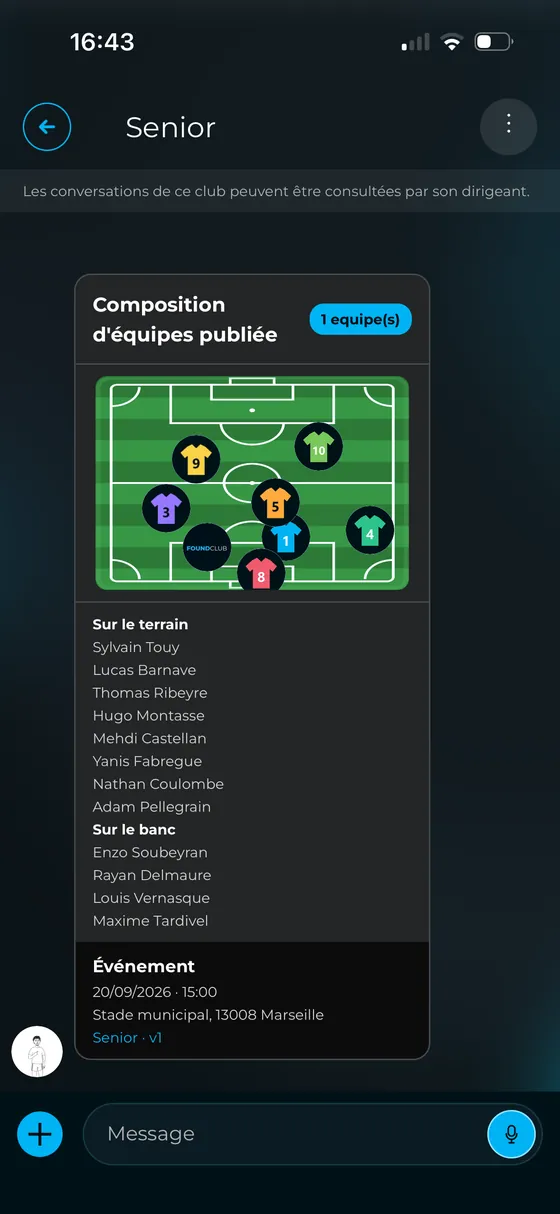
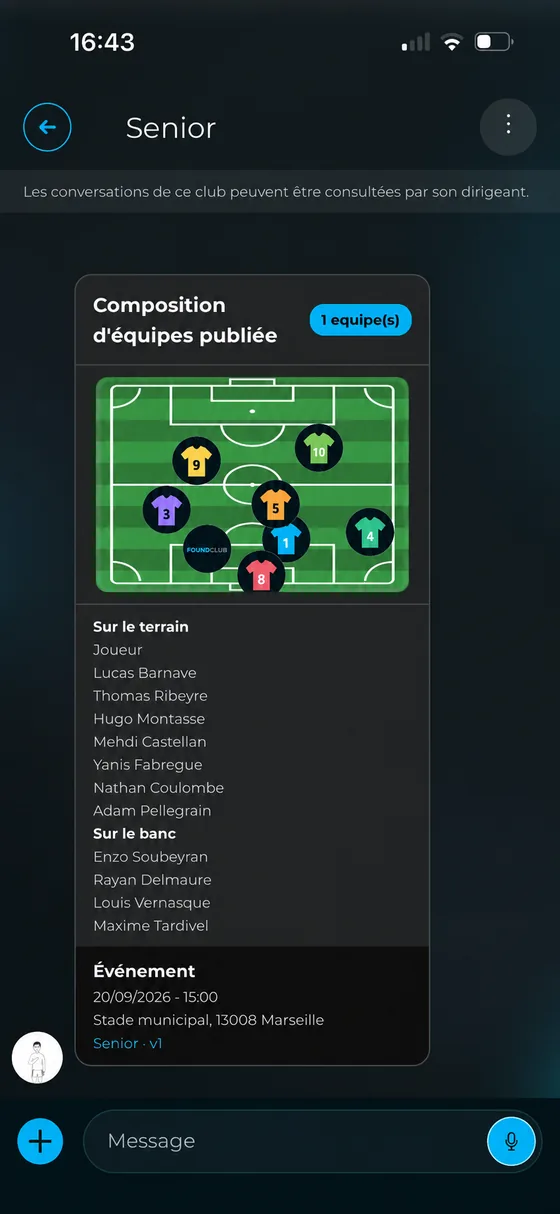
LANDING : histoire vidéo et anonymisation des captures

diff --git a/index.html b/index.html
@@ -67,6 +67,7 @@
       <nav class="nav" aria-label="Navigation principale">
         <a href="#section-club">Fonctionnalités</a>
         <a href="#recrutement">Recrutement</a>
+        <a href="#histoire">Notre histoire</a>
         <a href="#offres">Gratuit ou payant</a>
         <a href="#questions">Questions</a>
         <a href="note-ton-club.html">Note ton club</a>
@@ -80,6 +81,7 @@
   <nav class="ancres" aria-label="Sections de la page">
     <a href="#section-club">Fonctionnalités</a>
     <a href="#recrutement">Recrutement</a>
+    <a href="#histoire">Notre histoire</a>
     <a href="#offres">Gratuit ou payant</a>
     <a href="#questions">Questions</a>
     <a href="#inscrire-club">Nous écrire</a>
@@ -125,7 +127,38 @@
       </div>
     </section>
 
-    <!-- 3. LES BÉNÉFICES — chaque bloc porte une démonstration : une séquence de vraies captures du club de démonstration. -->
+    <!-- 3. NOTRE HISTOIRE — aperçu local, puis iframe YouTube-nocookie uniquement après clic. -->
+    <section class="section section--teinte histoire" id="histoire" aria-labelledby="titre-histoire">
+      <div class="conteneur histoire__grille">
+        <div class="histoire__texte">
+          <p class="surtitre">Une application née au bord du terrain</p>
+          <h2 id="titre-histoire">Notre histoire</h2>
+          <p class="chapeau">FoundClub est pensé pour les moments où un club amateur doit faire simple, vite et ensemble.</p>
+          <p>Des convocations aux détections, nous construisons l'application avec les gestes qui font vivre les équipes chaque semaine.</p>
+          <p class="note">La vidéo reste sur cette page tant que vous ne la lancez pas. Aucun appel à YouTube n'est effectué avant votre clic.</p>
+        </div>
+        <button class="video yt-lite" type="button" data-ytid="F2VxYtpfiRg" aria-label="Lire la vidéo Notre histoire de FoundClub">
+          <img src="images/accueil/equipe-900.webp" srcset="images/accueil/equipe-900.webp 900w, images/accueil/equipe-1600.webp 1600w" sizes="(min-width: 1200px) 640px, 100vw" width="1600" height="900" loading="lazy" decoding="async" alt="Deux joueurs en maillot FoundClub, vus de dos, sur un terrain synthétique">
+          <span class="video__voile" aria-hidden="true"></span>
+          <span class="video__lecture" aria-hidden="true"><svg viewBox="0 0 24 24"><path d="M6 4l14 8-14 8z"></path></svg></span>
+          <span class="video__legende">Regarder Notre histoire</span>
+        </button>
+      </div>
+    </section>
+
+    <!-- 4. ENGAGEMENTS — après le déclic, la preuve de confiance avant les fonctionnalités. -->
+    <section class="section" aria-labelledby="titre-engagements">
+      <div class="conteneur">
+        <h2 id="titre-engagements">Nos engagements</h2>
+        <ul class="engagements">
+          <li><strong>Aucun cookie sur ce site</strong>Pas d'outil de mesure d'audience, pas de publicité.</li>
+          <li><strong>Les mineurs protégés par des règles écrites</strong>Pas de compte avant 13 ans. Une déclaration parentale est demandée avant 15 ans.</li>
+          <li><strong>Une personne vous répond sous 24&nbsp;heures</strong><a href="mailto:contact@foundclubpro.com">contact@foundclubpro.com</a></li>
+        </ul>
+      </div>
+    </section>
+
+    <!-- 5. LES BÉNÉFICES — chaque bloc porte une démonstration : une séquence de vraies captures du club de démonstration. -->
     <section class="section section--teinte" id="section-club" aria-labelledby="titre-benefices">
       <div class="conteneur">
         <h2 id="titre-benefices">Ce que FoundClub fait pour vous, dès cette semaine</h2>
@@ -370,22 +403,7 @@
       </div>
     </section>
 
-    <!-- 4. LE TOURNAGE — lien sortant vers YouTube, rien n'est chargé depuis YouTube. -->
-    <section class="section" aria-labelledby="titre-video">
-      <div class="conteneur">
-        <h2 id="titre-video">Pensée sur de vrais terrains</h2>
-        <p class="chapeau">Football, basket, rugby, athlétisme&nbsp;: nous avons tourné FoundClub là où le sport amateur se joue.</p>
-        <a class="video" href="https://www.youtube.com/watch?v=4b8V5IIoktk" target="_blank" rel="noopener">
-          <img src="images/accueil/equipe-900.webp" srcset="images/accueil/equipe-900.webp 900w, images/accueil/equipe-1600.webp 1600w" sizes="(min-width: 1200px) 1160px, 100vw" width="1600" height="900" loading="lazy" decoding="async" alt="Deux joueurs en maillot FoundClub, vus de dos, sur un terrain synthétique">
-          <span class="video__voile" aria-hidden="true"></span>
-          <span class="video__lecture" aria-hidden="true"><svg viewBox="0 0 24 24"><path d="M6 4l14 8-14 8z"></path></svg></span>
-          <span class="video__legende">Voir la vidéo de présentation (5 min) sur YouTube</span>
-        </a>
-        <p class="note">La vidéo s'ouvre sur YouTube. Rien n'est chargé depuis YouTube sur cette page.</p>
-      </div>
-    </section>
-
-    <!-- 5. GRATUIT OU PAYANT — les 7 jours offerts prennent toute la largeur, c'est la seule offre de la page. -->
+    <!-- 6. GRATUIT OU PAYANT — les 7 jours offerts prennent toute la largeur, c'est la seule offre de la page. -->
     <section class="section section--teinte" id="offres" aria-labelledby="titre-offres">
       <div class="conteneur">
         <h2 id="titre-offres">Gratuit ou payant, dit clairement</h2>
@@ -427,18 +445,6 @@
             </ul>
           </div>
         </div>
-      </div>
-    </section>
-
-    <!-- 6. ENGAGEMENTS — quand la mesure d'audience sans cookie arrivera, seule la 1re ligne change. -->
-    <section class="section" aria-labelledby="titre-engagements">
-      <div class="conteneur">
-        <h2 id="titre-engagements">Nos engagements</h2>
-        <ul class="engagements">
-          <li><strong>Aucun cookie sur ce site</strong>Pas d'outil de mesure d'audience, pas de publicité.</li>
-          <li><strong>Les mineurs protégés par des règles écrites</strong>Pas de compte avant 13 ans. Une déclaration parentale est demandée avant 15 ans.</li>
-          <li><strong>Une personne vous répond sous 24&nbsp;heures</strong><a href="mailto:contact@foundclubpro.com">contact@foundclubpro.com</a></li>
-        </ul>
       </div>
     </section>
 
@@ -557,6 +563,7 @@
   </footer>
 
 
+  <script src="youtube-lite.js" defer></script>
   <script src="accueil.js" defer></script>
 </body>
 </html>

diff --git a/accueil.css b/accueil.css
@@ -102,6 +102,11 @@ a:focus-visible, button:focus-visible, summary:focus-visible { outline: 3px soli
 .section h2 { margin: 0 0 16px; font-size: clamp(1.7rem, 4.6vw, 2.5rem); line-height: 1.15; font-weight: 900; letter-spacing: -0.01em; }
 .chapeau { margin: 0; color: var(--texte-2); font-size: 1.08rem; max-width: 42rem; }
 
+/* ---------- Notre histoire ---------- */
+.histoire__grille { display: grid; gap: 28px; align-items: center; }
+.histoire__texte > p:not(.surtitre):not(.chapeau):not(.note) { max-width: 36rem; color: var(--texte-2); }
+@media (min-width: 900px) { .histoire__grille { grid-template-columns: minmax(0, 0.78fr) minmax(0, 1.22fr); gap: 64px; } }
+
 .douleurs { display: grid; gap: 14px; margin: 32px 0 0; padding: 0; list-style: none; }
 @media (min-width: 900px) { .douleurs { grid-template-columns: repeat(3, 1fr); } }
 .douleurs li { background: var(--carte); border: 1px solid var(--carte-bord); border-radius: var(--rayon); padding: 22px; color: var(--texte-2); display: flex; flex-direction: column; gap: 6px; align-items: flex-start; }
@@ -188,13 +193,16 @@ body[data-version="a"] .demo--b, body[data-version="b"] .demo--a { display: none
 .bande__carte p { margin: 8px 0 0; font-size: 0.8rem; color: var(--texte-2); text-align: center; }
 
 /* ---------- Vidéo ---------- */
-.video { position: relative; display: block; border-radius: var(--rayon); overflow: hidden; margin-top: 32px; text-decoration: none; }
+.video { position: relative; display: block; width: 100%; padding: 0; border: 0; border-radius: var(--rayon); overflow: hidden; margin-top: 32px; background: var(--carte); color: inherit; text-align: left; text-decoration: none; cursor: pointer; font: inherit; }
+.histoire .video { margin-top: 0; }
 .video img { width: 100%; aspect-ratio: 16 / 9; object-fit: cover; }
 .video__voile { position: absolute; inset: 0; background: linear-gradient(180deg, rgba(0,18,24,0.1) 30%, rgba(0,18,24,0.85) 100%); }
 .video__lecture { position: absolute; left: 50%; top: 50%; transform: translate(-50%, -50%); width: 76px; height: 76px; border-radius: 50%; background: var(--cyan); display: grid; place-items: center; box-shadow: 0 10px 40px rgba(0, 0, 0, 0.5); transition: transform 0.2s ease-out; }
 .video__lecture svg { width: 30px; height: 30px; margin-left: 5px; fill: var(--fond); }
 .video__legende { position: absolute; left: 20px; right: 20px; bottom: 16px; color: #fff; font-weight: 700; }
 .video:hover .video__lecture { background: #33c4f7; transform: translate(-50%, -50%) scale(1.06); }
+.video:focus-visible { outline: 3px solid var(--cyan); outline-offset: 5px; }
+.yt-lite__iframe { display: block; width: 100%; aspect-ratio: 16 / 9; border: 0; background: #000; }
 .note { margin: 12px 0 0; color: var(--texte-3); font-size: 0.9rem; }
 
 /* ---------- Gratuit / payant ---------- */

diff --git a/youtube-lite.js b/youtube-lite.js
@@ -8,8 +8,8 @@ document.querySelectorAll(".yt-lite").forEach((button) => {
 
     const iframe = document.createElement("iframe");
     iframe.className = "yt-lite__iframe";
-    iframe.src = `https://www.youtube.com/embed/${button.dataset.ytid}?autoplay=1&rel=0&modestbranding=1&playsinline=1&origin=${location.origin}`;
-    iframe.title = "Presentation video de FoundClub";
+    iframe.src = `https://www.youtube-nocookie.com/embed/${button.dataset.ytid}?autoplay=1&rel=0&modestbranding=1&playsinline=1&origin=${location.origin}`;
+    iframe.title = button.getAttribute("aria-label") || "Vidéo de FoundClub";
     iframe.allow = "accelerometer; autoplay; clipboard-write; encrypted-media; gyroscope; picture-in-picture; web-share";
     iframe.allowFullscreen = true;
 
